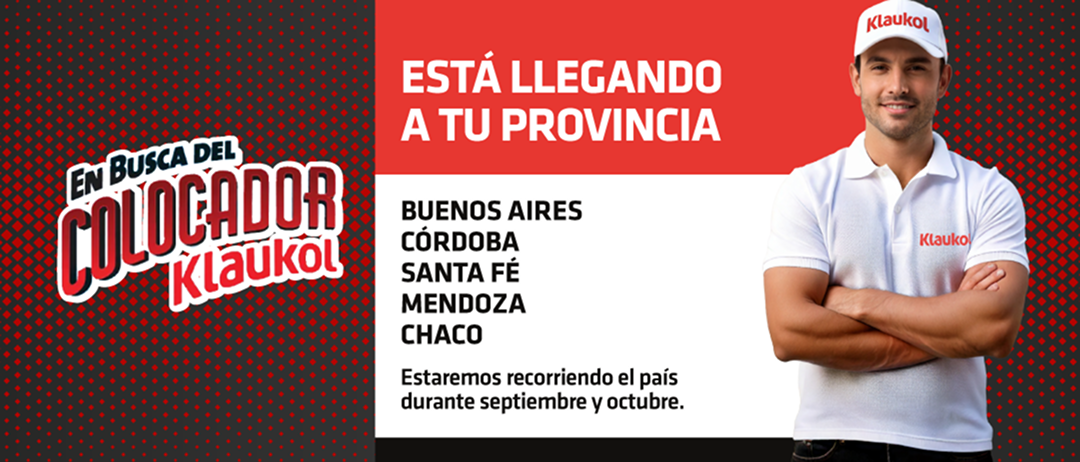
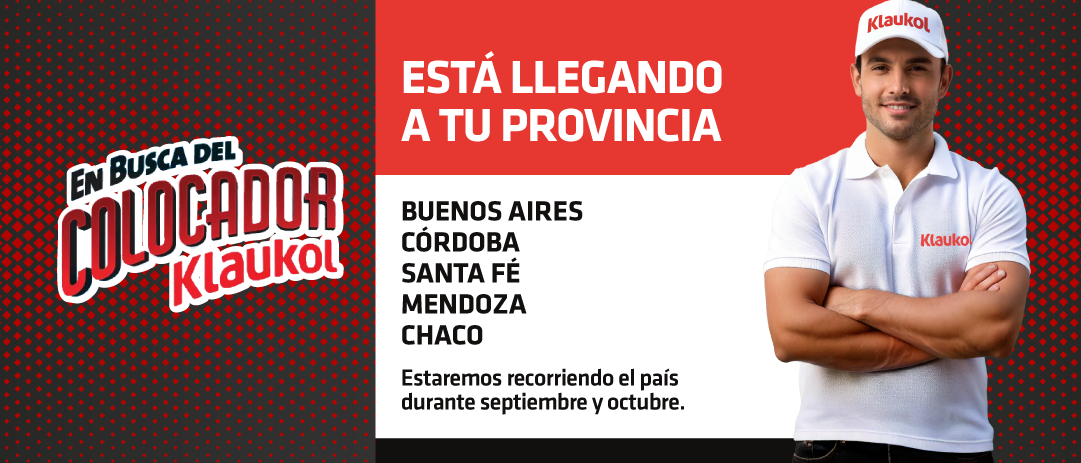
Imagenes en alta

diff --git a/components/home/Hero.vue b/components/home/Hero.vue
@@ -4,7 +4,6 @@
       <picture>
         <source media="(min-width: 1440px)" srcset="/images/home/banners/Klaukol-Hero-DesktopXL.png" />
         <source media="(min-width: 1080px)" srcset="/images/home/banners/Klaukol-Hero-Desktop.png" />
-        <source media="(min-width: 660px)" srcset="/images/home/banners/Klaukol-Hero-Tablet.png" />
         <NuxtImg src="/images/home/banners/Klaukol-Hero-Mobile.png" alt="Klaukol Hero" class="w-full object-cover" />
       </picture>
     </DefaultContent>
